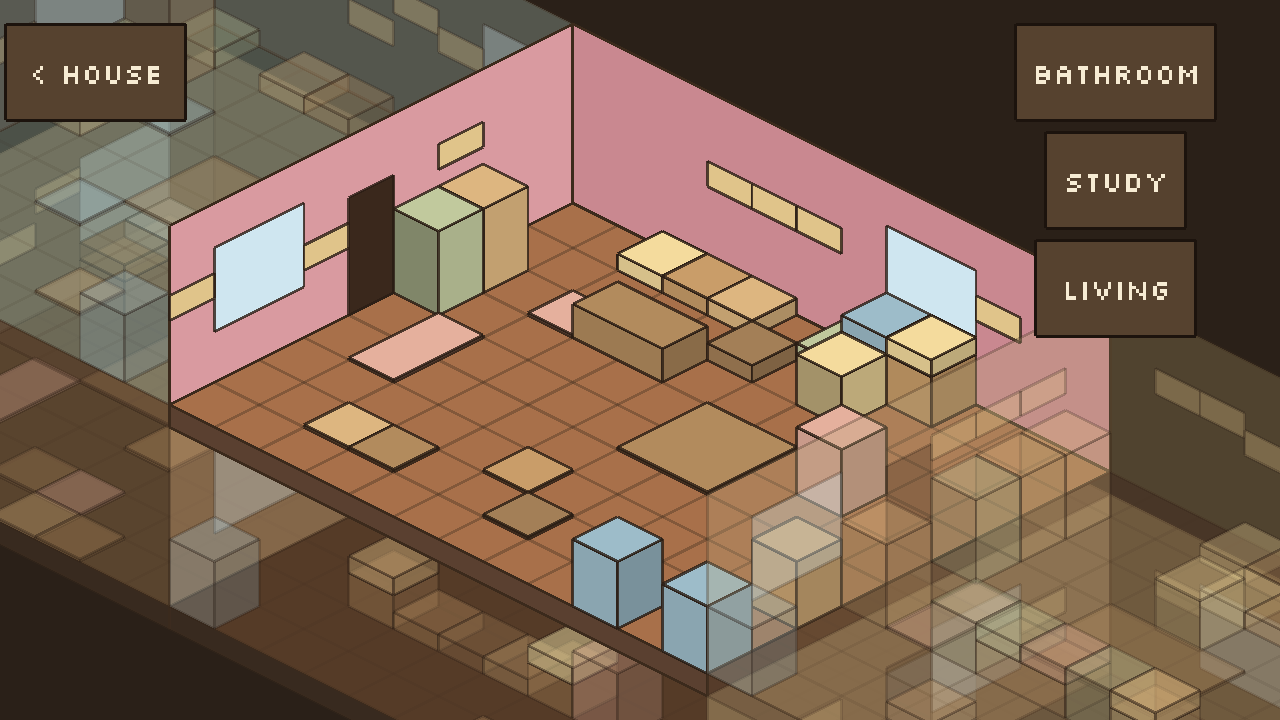
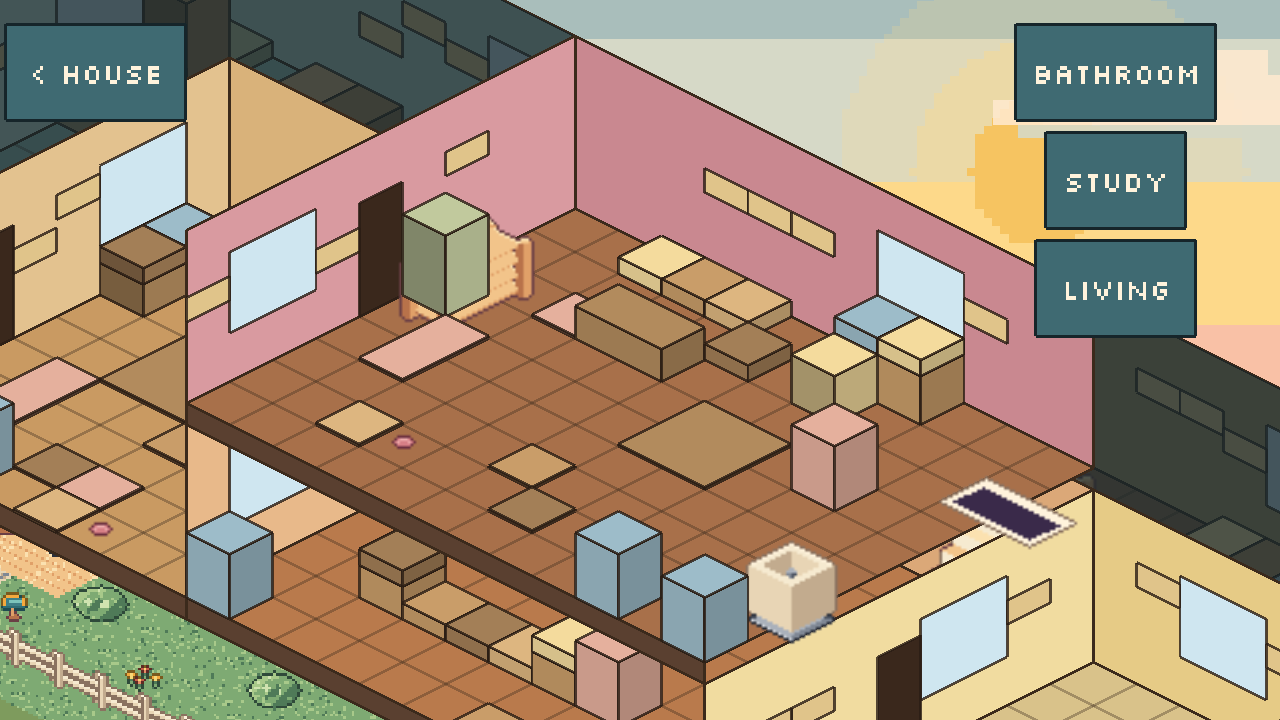
AI-1: shots on the default Home URL, status

diff --git a/docs/status/AI-1.md b/docs/status/AI-1.md
@@ -1,6 +1,7 @@
 # AI-1 status: Platform, Assets, Integrator (Phase 5)
 
 ## Done
+- TO-AI-1 #0: Home is the DEFAULT view (plain URL). `?view=legacy` / `?view=iso` keep the old screens until Gate B. flags.ts, runScene, MenuScene comment, tests/pixel+contract, e2e helpers (`openGame` = legacy, new `openHome`), smoke test "boots to Home", shots (menu = legacy; home-overview = plain URL). Pages and APK now show the house.
 - Gate 0: `npm run shots` (playwright.shots.config.ts + tests/shots/shots.spec.ts); each capture asserts its scene first (Home via ?view=home).
 - TO-AI-1 #1: shots regenerated on real WebGL; home-overview shows the Home scene (stub boxes, 3 buttons).
 - TO-AI-1 #2: `check_fronts.py` is in `npm run verify` (already in package.json).
@@ -11,6 +12,7 @@
 - perf.e2e 50x restart soak fixed (an intro card swallowed the pause tap): now passes.
 
 ## Verified
+- `npm run verify` after the flip: exit 0 (secret-scan clean, tsc, vitest all passed, build, check-assets, check_fronts, 3 smoke e2e passed). `npm run shots`: 6 passed; home-overview.png viewed = Home with yard, 3 buttons.
 - `npx tsc --noEmit`: clean. `npm test`: 44 files, 395 tests passed.
 - `npx playwright test tests/e2e/pixel.e2e.ts`: 1 passed (8x8 sprite at x3 = exact 3x3 blocks, WebGL).
 - `npm run shots`: 6 passed, 22 PNGs rewritten in docs/shots.

diff --git a/docs/manager/TO-AI-1.md b/docs/manager/TO-AI-1.md
@@ -7,5 +7,5 @@
 5. Then continue your brief: puzzle shell skin hook and hint ladder UI, Gate B cleanup when the manager says so, Gate C APK.
 
 ## Done
-- Item 0 (4 Nov, AI-1): Home is the default (`flags.ts`: home true unless `?view=legacy` or `?view=iso`); e2e `openGame` uses `?view=legacy`, new `openHome` + smoke test "boots to Home"; verify exit 0 (3 smoke passed). Shots updated next.
+- Item 0 (4 Nov, AI-1): Home is the default (`flags.ts`: home true unless `?view=legacy` or `?view=iso`); e2e `openGame` uses `?view=legacy`, new `openHome` + smoke test "boots to Home"; verify exit 0 (3 smoke passed). Shots regenerated (6 passed).
 - Items 1 and 2: verified by the manager on 4 Nov (all shots regenerated from latest main, each PNG shows its named scene). Items 3 and 4 still open (dist 2264 KB over the 2048 budget; pixel-crispness defect).
